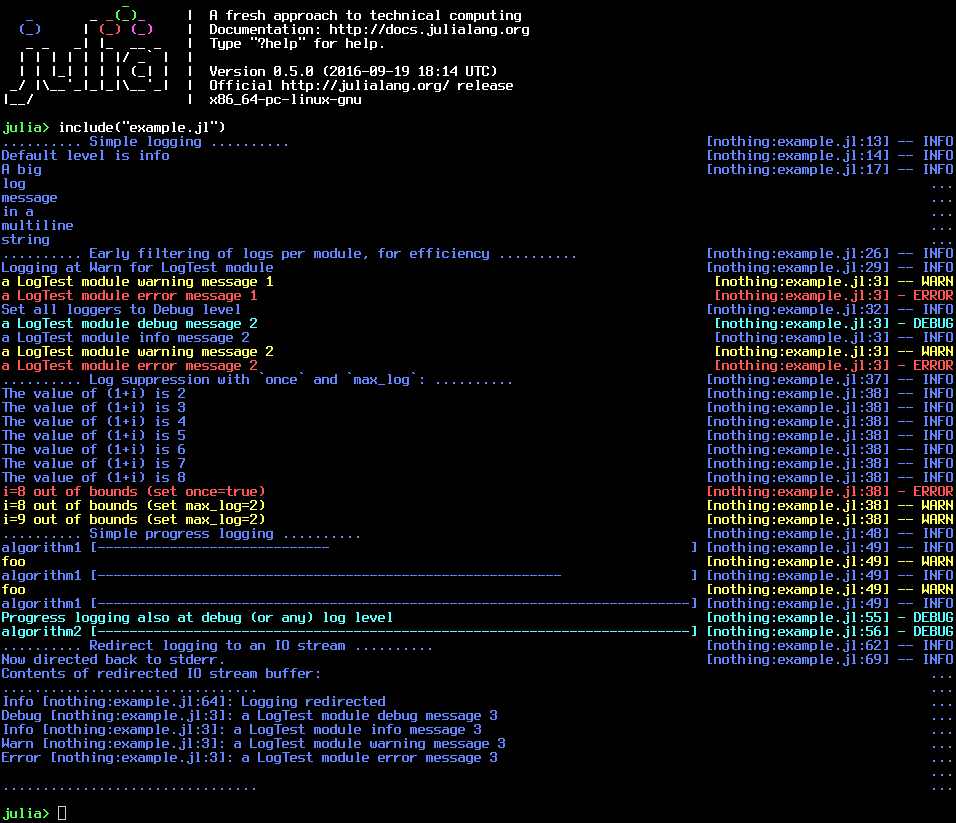
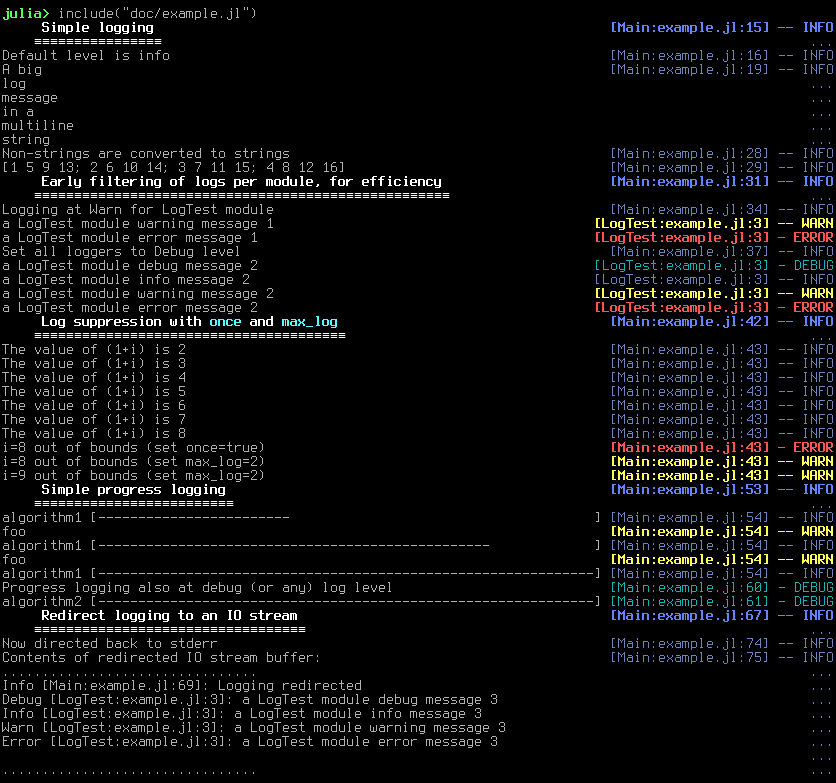
Rough markdown message support for SimpleLogger
* Some basic support for markdown log strings.  Unclear whether this is
  a good idea, but it looks nice.
* Add Compat for takebuf_string()
* Disable color, except for metadata
* Enable bold support on julia-0.6
* Fix screenshot

diff --git a/README.md b/README.md
@@ -22,8 +22,10 @@ end
 end
 
 using MicroLogging
+using Compat
+using Base.Markdown
 
-@info ".......... Simple logging .........."
+@info md"# Simple logging"
 @info "Default level is info"
 @debug "I am an invisible debug message"
 
@@ -36,7 +38,10 @@ multiline
 string
 """
 
-@info ".......... Early filtering of logs per module, for efficiency .........."
+@info "Non-strings are converted to strings"
+@info reshape(1:16, (4,4))
+
+@info md"# Early filtering of logs per module, for efficiency"
 
 limit_logging(LogTest, MicroLogging.Warn)
 @info "Logging at Warn for LogTest module"
@@ -47,7 +52,7 @@ limit_logging(MicroLogging.Debug)
 LogTest.f(2)
 
 
-@info ".......... Log suppression with `once` and `max_log`: .........."
+@info md"# Log suppression with `once` and `max_log`"
 for i=1:20
     if i > 7
         @error "i=$i out of bounds (set once=true)" once=true
@@ -58,7 +63,7 @@ for i=1:20
 end
 
 
-@info ".......... Simple progress logging .........."
+@info md"# Simple progress logging"
 for i=1:100
     sleep(0.01)
     i%40 != 0 || @warn "foo"
@@ -72,18 +77,18 @@ for i=1:100
 end
 
 
-@info ".......... Redirect logging to an IO stream .........."
+@info md"# Redirect logging to an IO stream"
 logstream = IOBuffer()
 with_logger(SimpleLogger(logstream, false)) do
     @info "Logging redirected"
     LogTest.f(3)
 end
 
+@info "Now directed back to stderr"
 @info """
-Now directed back to stderr.
 Contents of redirected IO stream buffer:
 ................................
-$(takebuf_string(logstream))
+$(String(take!(logstream)))
 ................................
 """
 ```
